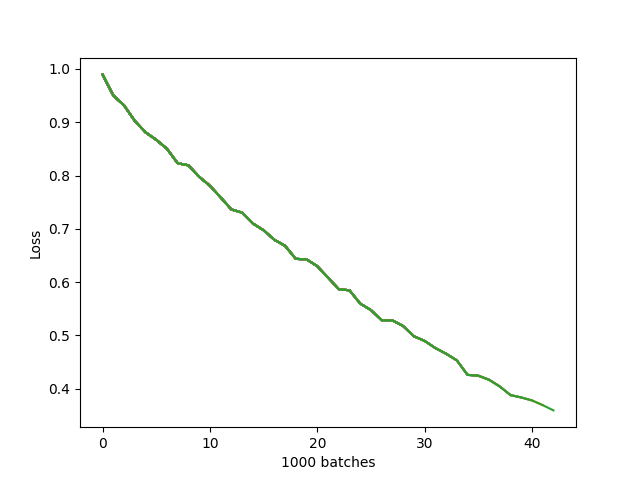
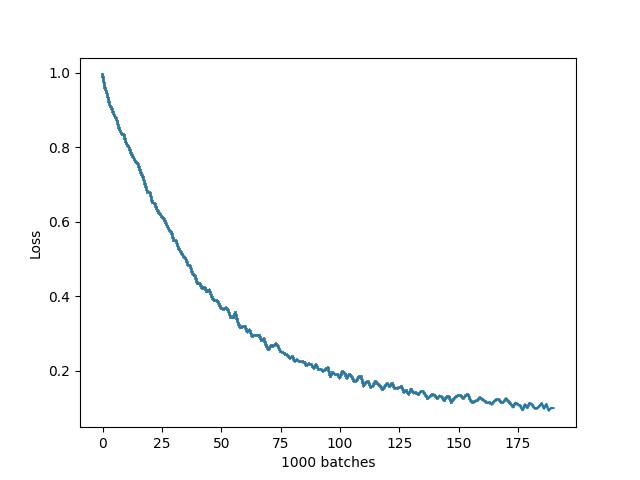
final experimentation for histogram

diff --git a/lyric_sim/accuracy_histogram.py b/lyric_sim/accuracy_histogram.py
@@ -27,7 +27,7 @@ config_name = config["config_name"]
 print('Loading Musix Match testing data...')
 testset = MxMLastfmJoinedDataset(mxm_db, True, num_examples=num_examples, keep_words=keep_words)
 sampler = WeightedRandomSampler(testset.get_sample_weights(), testset.__len__())
-testloader = DataLoader(testset, N, num_workers=num_workers, sampler=sampler)
+testloader = DataLoader(testset, batch_size=N, num_workers=num_workers, sampler=sampler)
 
 MODEL_PATH = f'./saved_models/{config_name}.pth'
 
@@ -40,7 +40,8 @@ TP = 0
 FP = 0 
 TN = 0 
 FN = 0 
-other = 0 
+
+model.eval()
 # since we're not training, we don't need to calculate the gradients for our outputs
 with torch.no_grad():
     for data in testloader:
@@ -60,11 +61,14 @@ with torch.no_grad():
             FP += (label_pred == 1) & (label == -1)
             FN += (label_pred == -1) & (label == 1)
 
-write_results_to_csv(TP.item(), TN.item(), FP.item(), FN.item(), f'./plots/{config_name}.csv')
-
 correct = TP + TN
-print(f'Accuracy of the network on {total} test examples: {100 * correct / total}%')
-print(f'F1-Score of the network on {total} test examples: {100 * (2*TP) / (2*TP + FP + FN)}%')
+accuracy = 100 * correct / total
+f1 = 100 * (2*TP) / (2*TP + FP + FN)
+
+write_results_to_csv(TP.item(), TN.item(), FP.item(), FN.item(), accuracy.item(), f1.item(), f'./plots/{config_name}.csv')
+
+print(f'Accuracy of the network on {total} test examples: {accuracy}%')
+print(f'F1-Score of the network on {total} test examples: {f1}%')
 
 print(f'Precision (Positive Predictive Value) on {total} test examples: {100 * TP/(TP + FP)}%')
 print(f'Recall (True Positive Rate) on {total} test examples: {100 * TP/(TP + FN)}%')

diff --git a/lyric_sim/train_histogram.py b/lyric_sim/train_histogram.py
@@ -8,7 +8,6 @@ import torch.optim as optim
 import torch.nn as nn
 from datasets.mxm import MxMLastfmJoinedDataset
 from utils import parse_args_and_config, plot_loss
-import functools
 
 from models.histogram import HistogramModel
 
@@ -58,7 +57,7 @@ def worker_init(worker_id):
 print('Loading Musix Match training data...')
 trainset = MxMLastfmJoinedDataset(mxm_db, False, num_examples=num_examples, keep_words=keep_words)
 sampler = WeightedRandomSampler(trainset.get_sample_weights(), trainset.__len__())
-trainloader = DataLoader(trainset, N, num_workers=num_workers, sampler=sampler, worker_init_fn=worker_init)
+trainloader = DataLoader(trainset, batch_size=N, num_workers=num_workers, sampler=sampler, worker_init_fn=worker_init)
 
 for epoch in range(config['num_epochs']):
     print(f'Training epoch {epoch+1}')
@@ -69,8 +68,9 @@ for epoch in range(config['num_epochs']):
     running_loss = 0.0
     for (i, batch) in enumerate(trainloader, 0):
 
-        total += len(batch[1])
-        similars += functools.reduce(lambda _, t: int(t == 1), batch[1])
+        # total += len(batch[1])
+        # for sim in batch[1]:
+        #     similars += int(sim.item() == 1)
 
         inputs, labels = batch[0].to(device), batch[1].to(device)
 
@@ -92,8 +92,8 @@ for epoch in range(config['num_epochs']):
             print('[%d, %5d] loss: %.3f similars/total: %d/%d' %
                   (epoch, i, running_loss / 1000, similars, total))
             running_loss = 0.0
-            total = 0
-            similars = 0
+            # total = 0
+            # similars = 0
 
 save_model(model)
 plot_loss(loss_history, f'./plots/{config_name}.png')

diff --git a/lyric_sim/utils.py b/lyric_sim/utils.py
@@ -24,8 +24,8 @@ def plot_loss(loss_history: List[float], filename: str):
     pyplot.ylabel('Loss')
     pyplot.savefig(filename)
 
-def write_results_to_csv(TP, TN, FP, FN, filename):
+def write_results_to_csv(TP, TN, FP, FN, accuracy, f1, filename):
     with open(filename, 'w+') as csvfile:
         writer = csv.writer(csvfile)
-        writer.writerow(['TP', 'TN', 'FP', 'FN'])
-        writer.writerow([TP, TN, FP, FN])
+        writer.writerow(['TP', 'TN', 'FP', 'FN', 'accuracy', 'f1'])
+        writer.writerow([TP, TN, FP, FN, accuracy, f1])

diff --git a/lyric_sim/datasets/mxm.py b/lyric_sim/datasets/mxm.py
@@ -61,7 +61,8 @@ class MxMLastfmJoinedDataset(Dataset):
 
         print('\r' + f'Loaded {len(examples)} word counts',)
 
-        weight_similar = (num_examples-similar_count)/num_examples
+        # weight_similar = (num_examples-similar_count)/num_examples
+        weight_similar = 1
         weight_not_similar = similar_count/num_examples
 
         print(f'Will sample class <not similar> with {weight_not_similar} probability and <similar> with {weight_similar} probability')

diff --git a/lyric_sim/models/histogram.py b/lyric_sim/models/histogram.py
@@ -7,9 +7,10 @@ class HistogramModel(nn.Module):
         self.model = nn.Sequential(
             nn.Linear(input_size, hidden_size_0),
             nn.ReLU(),
-            nn.Linear(hidden_size_0, hidden_size_1),
+            nn.Dropout(0.10),
+            nn.Linear(hidden_size_0, hidden_size_0),
             nn.ReLU(),
-            nn.Linear(hidden_size_1, 1),
+            nn.Linear(hidden_size_0, 1),
             nn.Tanh()
         )
 
